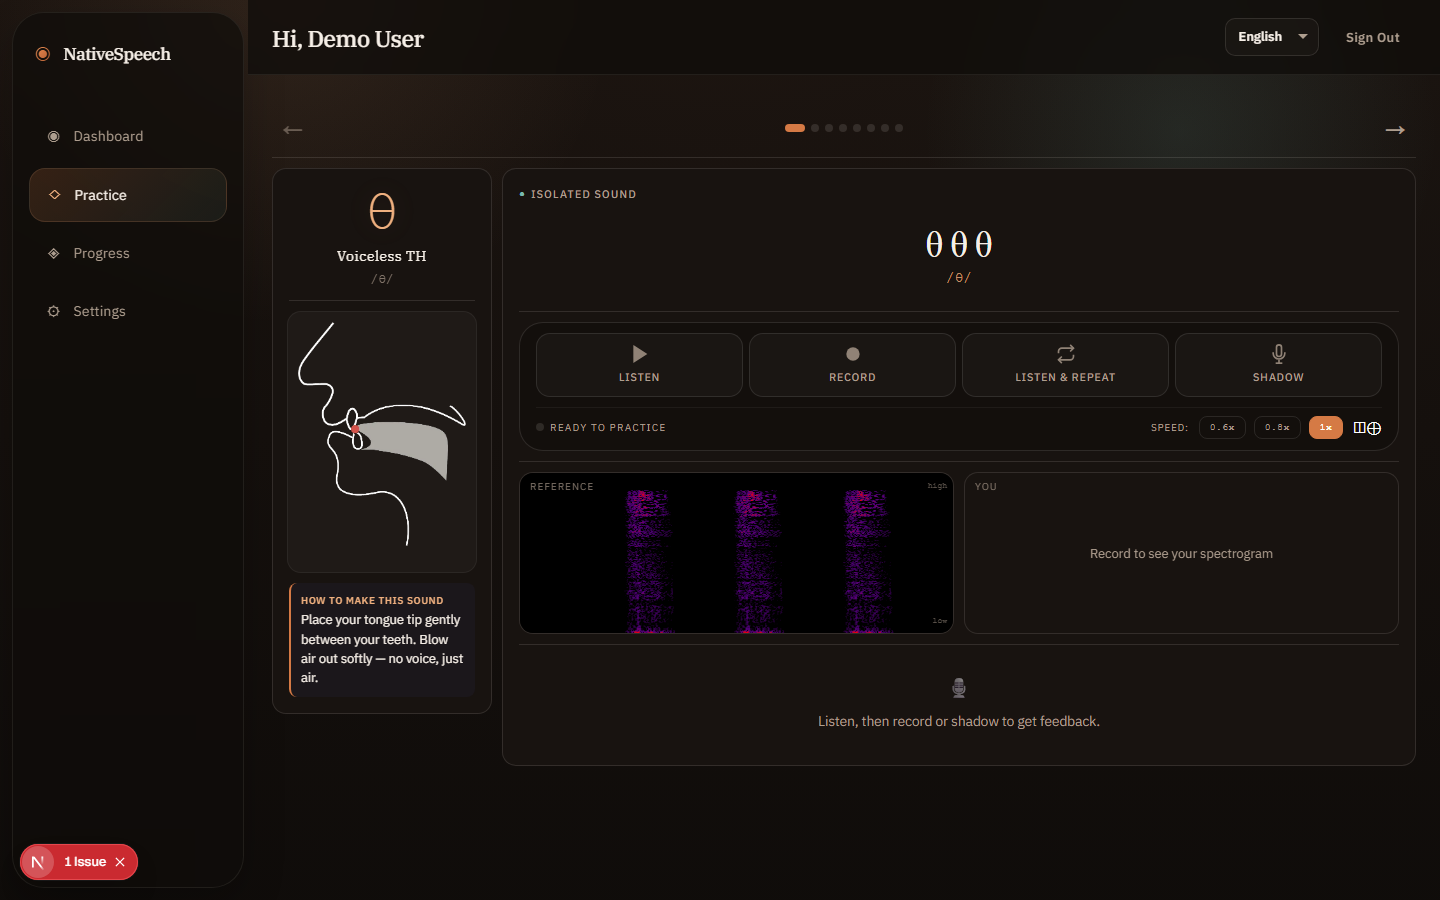
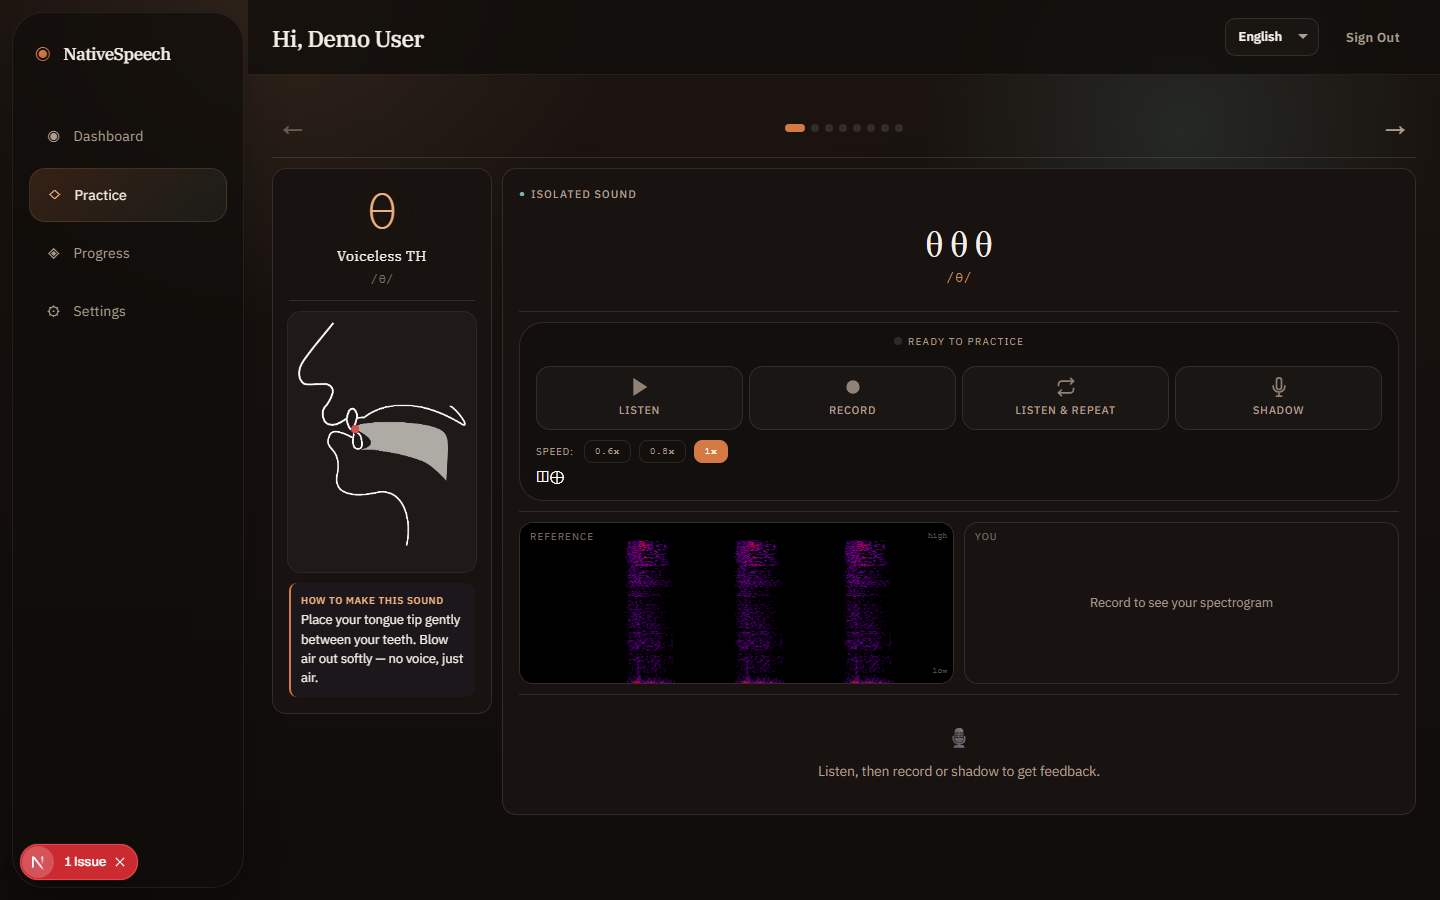
refactor: status above buttons, speed+toggle below
- Move 'Ready to practice' status indicator above record buttons
- Move Speed and view mode toggle (◫⊕) to row below buttons
- Cleaner visual hierarchy: status → controls → options

diff --git a/src/components/practice/ShadowingPlayer.tsx b/src/components/practice/ShadowingPlayer.tsx
@@ -294,6 +294,15 @@ export function ShadowingPlayer({
         </div>
       )}
 
+      {/* Status Line - Above buttons */}
+      <div className={styles.statusLine}>
+        <div className={`${styles.statusIndicator} ${isRecording ? styles.statusRecording : isPlaying ? styles.statusPlaying : isShadowing ? styles.statusShadowing : ""}`} />
+        <span className={styles.statusText}>
+          {phase === "idle" && t("phaseReady")}
+          {phaseText}
+        </span>
+      </div>
+
       {/* Control Grid - Gemini Style */}
       <div className={styles.controls}>
         <button
@@ -362,36 +371,27 @@ export function ShadowingPlayer({
         </button>
       </div>
 
-      {/* Status + Speed + View Mode Combined */}
-      <div className={styles.statusSpeedBar}>
-        <div className={styles.statusSection}>
-          <div className={`${styles.statusIndicator} ${isRecording ? styles.statusRecording : isPlaying ? styles.statusPlaying : isShadowing ? styles.statusShadowing : ""}`} />
-          <span className={styles.statusText}>
-            {phase === "idle" && t("phaseReady")}
-            {phaseText}
-          </span>
-        </div>
-        <div className={styles.rightSection}>
-          <div className={styles.speedSection}>
-            <span className={styles.speedLabel}>{t("speed")}</span>
-            <div className={styles.speedControl}>
-              {SPEEDS.map((s) => (
-                <button
-                  key={s}
-                  className={`${styles.speedBtn} ${speed === s ? styles.speedBtnActive : ""}`}
-                  onClick={() => setSpeed(s)}
-                  disabled={isBusy}
-                  aria-pressed={speed === s}
-                >
-                  {s}x
-                </button>
-              ))}
-            </div>
+      {/* Speed + View Mode Row - Below buttons */}
+      <div className={styles.optionsBar}>
+        <div className={styles.speedSection}>
+          <span className={styles.speedLabel}>{t("speed")}</span>
+          <div className={styles.speedControl}>
+            {SPEEDS.map((s) => (
+              <button
+                key={s}
+                className={`${styles.speedBtn} ${speed === s ? styles.speedBtnActive : ""}`}
+                onClick={() => setSpeed(s)}
+                disabled={isBusy}
+                aria-pressed={speed === s}
+              >
+                {s}x
+              </button>
+            ))}
           </div>
-          {viewMode && onViewModeChange && (
-            <ViewModeToggle viewMode={viewMode} onChange={onViewModeChange} />
-          )}
         </div>
+        {viewMode && onViewModeChange && (
+          <ViewModeToggle viewMode={viewMode} onChange={onViewModeChange} />
+        )}
       </div>
     </div>
   );

diff --git a/src/components/practice/ShadowingPlayer.module.css b/src/components/practice/ShadowingPlayer.module.css
@@ -12,26 +12,13 @@
   border: 1px solid var(--color-border);
 }
 
-/* Status + Speed + View Mode Combined Bar */
-.statusSpeedBar {
+/* Status Line - Above buttons */
+.statusLine {
   display: flex;
   align-items: center;
-  justify-content: space-between;
-  gap: var(--space-sm);
-  padding-top: var(--space-xs);
-  border-top: 1px solid rgba(255, 255, 255, 0.05);
-}
-
-.statusSection {
-  display: flex;
-  align-items: center;
+  justify-content: center;
   gap: var(--space-xs);
-}
-
-.rightSection {
-  display: flex;
-  align-items: center;
-  gap: var(--space-sm);
+  margin-bottom: var(--space-xs);
 }
 
 .statusIndicator {
